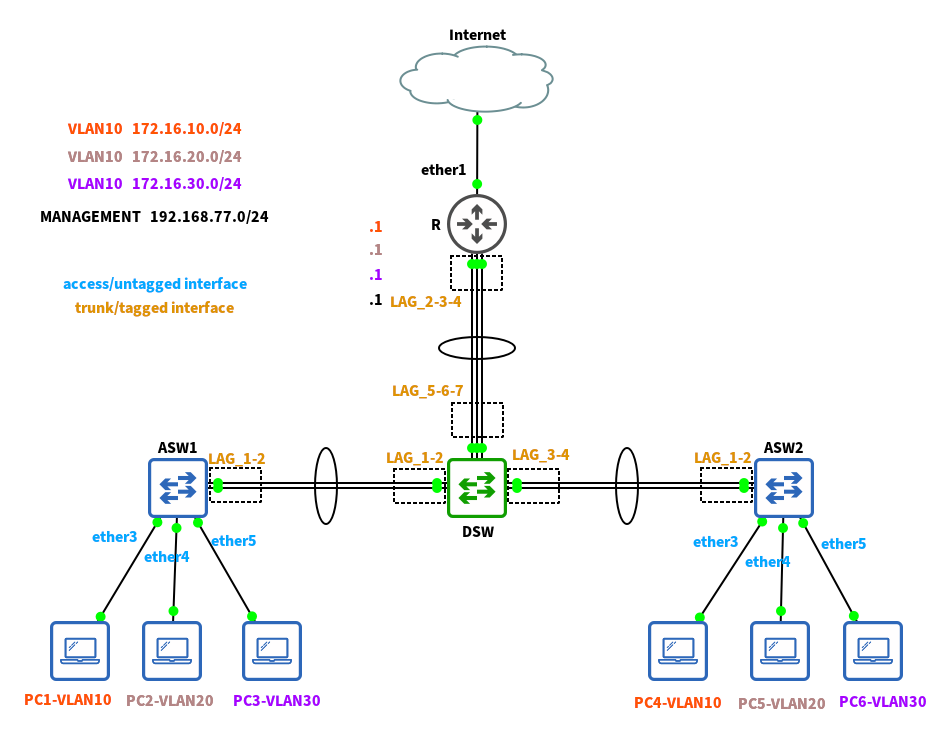
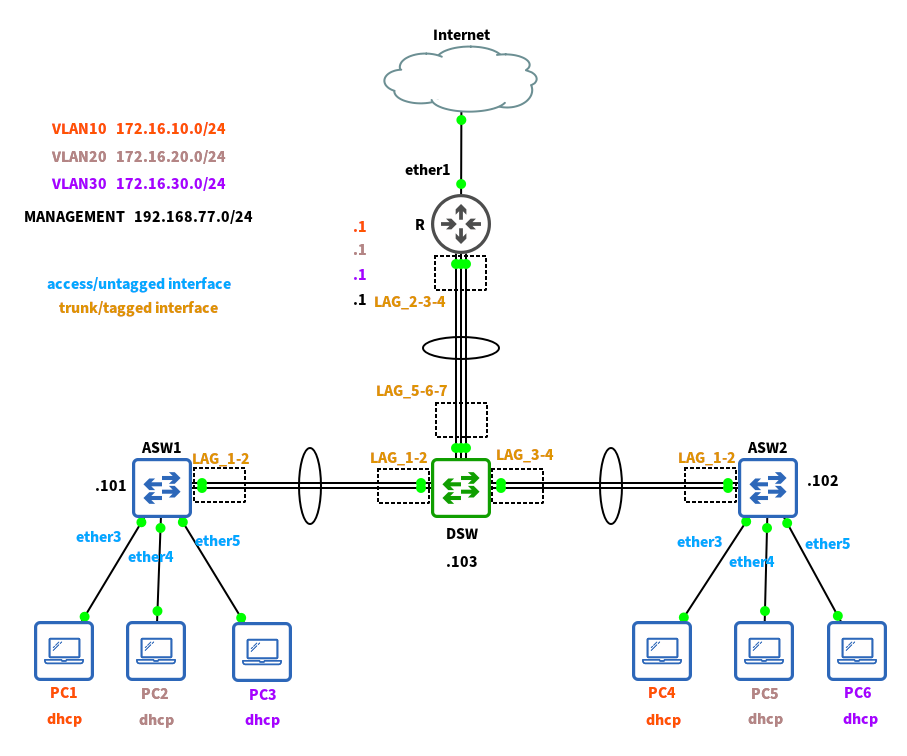
FIX posts: better define what DHCP should do, fix topology image

diff --git a/content/posts/Ethernet_link_aggregation_-_introduction/index.md b/content/posts/Ethernet_link_aggregation_-_introduction/index.md
@@ -1,6 +1,6 @@
 +++
 date = '2026-03-02T20:06:18+01:00'
-modified = '2026-03-02T20:06:18+01:00'
+modified = '2026-03-09T20:18:51+01:00'
 draft = false
 title = 'Ethernet link aggregation - introduction'
 tags = []
@@ -107,5 +107,7 @@ The router is responsible for:
 
 - inter VLAN routing
 - DHCP server for all regular VLANs
-- DNS server
+  - optionally the range of leased addresses is limited to .100-.200 in each subnet
+  - it informs hosts of Google's DNS server at 8.8.8.8 (management subnet has this configured statically)
 - NAT to the internet
+  - the "nating" interface is configured as a DHCP client
